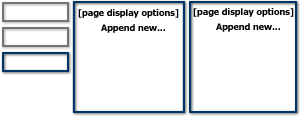
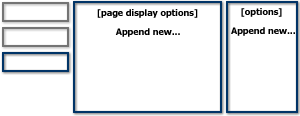
UI1/UI2: '2-column page' is now renamed back to 'Page with Sidebar'. As well, the 'sidebar' organizers now have their default widths set to 200px so that they look more like a sidebar.

Changed region(s): [[0.24, 0.0, 1.0, 1.0]]

diff --git a/main/modules/ui1/addMenuContent.act.php b/main/modules/ui1/addMenuContent.act.php
@@ -6,7 +6,7 @@
  * @copyright Copyright &copy; 2005, Middlebury College
  * @license http://www.gnu.org/copyleft/gpl.html GNU General Public License (GPL)
  *
- * @version $Id: addMenuContent.act.php,v 1.5 2007/09/04 15:07:43 adamfranco Exp $
+ * @version $Id: addMenuContent.act.php,v 1.6 2007/09/25 14:07:32 adamfranco Exp $
  */ 
 
 require_once(dirname(__FILE__)."/addContent.act.php");
@@ -21,7 +21,7 @@ require_once(dirname(__FILE__)."/../ui2/addComponent.act.php");
  * @copyright Copyright &copy; 2005, Middlebury College
  * @license http://www.gnu.org/copyleft/gpl.html GNU General Public License (GPL)
  *
- * @version $Id: addMenuContent.act.php,v 1.5 2007/09/04 15:07:43 adamfranco Exp $
+ * @version $Id: addMenuContent.act.php,v 1.6 2007/09/25 14:07:32 adamfranco Exp $
  */
 class addMenuContentAction
 	extends addContentAction
@@ -191,20 +191,20 @@ class addMenuContentAction
 			);
 		$types[] = array(
 				"type" => new Type('segue-multipart', 'edu.middlebury', 'SidebarContentPage_multipart'),
-				"name" => _("Two Column Page"),
-				"description" => _("Chose this if you want a page with two columns into which you can append any number of content blocks."),
+				"name" => _("Page with Sidebar"),
+				"description" => _("Chose this if you want a page with a main column and a sidebar column."),
 				"icon" => "PageWithSideBar.png"
 			);
 		$types[] = array(
 				"type" => new Type('segue-multipart', 'edu.middlebury', 'SubMenu_multipart'),
-				"name" => _("Nested Pages"),
-				"description" => _("Chose this if you want to add another level of navigation in which you can add any number of nested sub-pages to the current page."),
+				"name" => _("Sub Menu"),
+				"description" => _("Chose this if you want to add another level of navigation in which you can add any number of sub-pages."),
 				"icon" => "SubMenu.png"
 			);
 		$types[] = array(
 				"type" => new Type('segue-multipart', 'edu.middlebury', 'SidebarSubMenu_multipart'),
-				"name" => _("Nested Pages with Sidebar"),
-				"description" => _("Chose this if you want to add another level of navigation in which you can add any number of nested sub-pages to the current page AND include a right sidebar for content common to all these sub-pages!"),
+				"name" => _("Sub Menu with Sidebar"),
+				"description" => _("Chose this if you want to add another level of navigation in which you can add any number of sub-pages AND include a right sidebar for content common to all these sub-pages!"),
 				"icon" => "SubMenuWithSideBar.png"
 			);
 		return $types;

diff --git a/main/modules/ui2/addComponent.act.php b/main/modules/ui2/addComponent.act.php
@@ -5,7 +5,7 @@
  * @copyright Copyright &copy; 2005, Middlebury College
  * @license http://www.gnu.org/copyleft/gpl.html GNU General Public License (GPL)
  *
- * @version $Id: addComponent.act.php,v 1.4 2007/09/04 15:07:44 adamfranco Exp $
+ * @version $Id: addComponent.act.php,v 1.5 2007/09/25 14:07:32 adamfranco Exp $
  */ 
 
 require_once(MYDIR."/main/library/SiteDisplay/EditModeSiteAction.act.php");
@@ -19,7 +19,7 @@ require_once(MYDIR."/main/library/SiteDisplay/EditModeSiteAction.act.php");
  * @copyright Copyright &copy; 2005, Middlebury College
  * @license http://www.gnu.org/copyleft/gpl.html GNU General Public License (GPL)
  *
- * @version $Id: addComponent.act.php,v 1.4 2007/09/04 15:07:44 adamfranco Exp $
+ * @version $Id: addComponent.act.php,v 1.5 2007/09/25 14:07:32 adamfranco Exp $
  */
 class addComponentAction 
 	extends EditModeSiteAction
@@ -121,6 +121,7 @@ class addComponentAction
 				$contentOrganizer = $director->createSiteComponent($director->FlowOrganizerType, $navOrganizer);
 				$navOrganizer->putSubcomponentInCell($contentOrganizer, $targetIndex + 1);
 				$subMenu->updateDirection('Top-Bottom/Left-Right');
+				$contentOrganizer->updateWidth("200px");
 				break;		
 			case 'ContentPage_multipart':
 				$component = $director->createSiteComponent($director->NavBlockType, $organizer);
@@ -134,9 +135,11 @@ class addComponentAction
 				$contentOrganizer = $director->createSiteComponent($director->FlowOrganizerType, $navOrganizer);
 				$navOrganizer->putSubcomponentInCell($contentOrganizer, 0);
 				
+				// Sidebar
 				$navOrganizer->updateNumColumns(2);
 				$contentOrganizer = $director->createSiteComponent($director->FlowOrganizerType, $navOrganizer);
 				$navOrganizer->putSubcomponentInCell($contentOrganizer, 1);
+				$contentOrganizer->updateWidth("200px");
 				break;
 			default:
 				throwError(new Error("Unknown multipart component: '".$componentType->asString()."'", __CLASS__));
